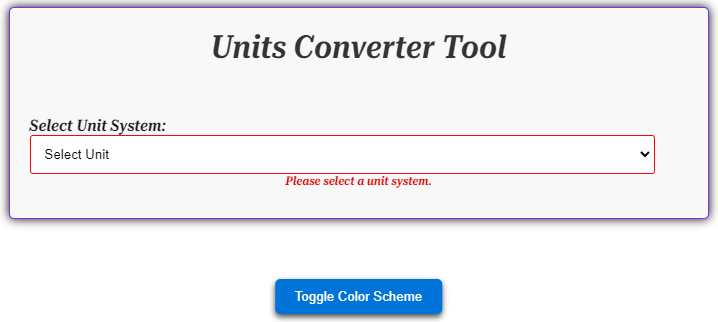
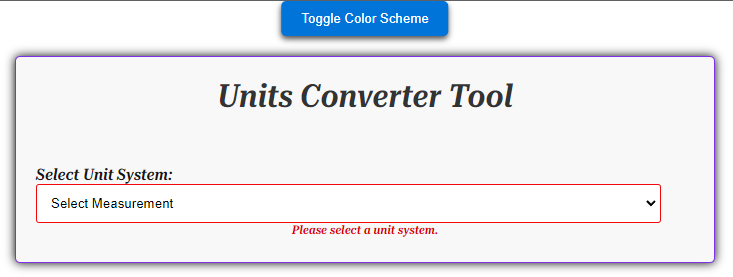
update readme

Changed region(s): [[0.0, 0.0, 1.0, 1.0], [0.0613, 0.4621, 0.1532, 0.491], [0.8886, 0.4621, 0.9192, 0.491]]

diff --git a/index.html b/index.html
@@ -24,7 +24,7 @@
             <select class="input-control" id="unit-sys">
                 <option value="">Select Measurement</option>
             </select>
-            <p class="instructions">Please select a unit system.</p>
+            <p class="instructions">Please select a unit system</p>
         </div>
 
         <!-- from unit select dropdown -->
@@ -32,7 +32,7 @@
             <label for="from-unit">From:</label>
             <select class="input-control" id="from-unit">
             </select>
-            <p class="instructions">Please select which unit to convert from.</p>
+            <p class="instructions">Please select which unit to convert from</p>
 
         </div>
 
@@ -41,7 +41,7 @@
             <label for="to-unit">To:</label>
             <select class="input-control" id="to-unit">
             </select>
-            <p class="instructions">Please select which unit to convert to.</p>
+            <p class="instructions">Please select which unit to convert to</p>
 
         </div>
 
@@ -70,7 +70,7 @@
                     <label for="decimal-places">Decimal Count:</label>
                     <select id="decimal-places">
                     </select>
-                    <p class="instructions">select how many desimal and press <br> (Update Decimal)</p>
+                    <p class="instructions">select desired decimal places and press <br> (Update Decimal)</p>
             <button id="update-button">Update Decimal</button>
 
                 </div>

diff --git a/README.md b/README.md
@@ -23,18 +23,15 @@ You can find the live website [here](https://mufasa1611.github.io/Project2-Conve
     - [Validator Testing](#validator-testing)
     - [Browser Testing](#browser-testing)
     - [Manual Testing](#manual-testing)
-    - [Testing User Stories](#testing-user-stories)
     - [Fixed Bugs](#fixed-bugs)
-    - [Unfixed Bugs](#unfixed-bugs)
-
+ 
 - [Deployment](#deployment)
 
 - [Credits](#credits)
     - [Media](#media)
     - [Code](#code)
-    - [Content](#content)
-
-## Design
+   
+   ## Design
 
 ### Wireframes
 
@@ -45,45 +42,45 @@ for Desktop and Mobile:
 
 
 ### Fonts and Colours
-- I chose the free 'RobotoSerif_UltraC' and 'RobotoSerif_Thin' for the whole page to stay consistent for better user accessibility. The fonts were downloaded from google fonts and are placed in the local folder "fonts".
+- I chose the free 'RobotoSerif_UltraC' and 'RobotoSerif_Thin' for the whole page because I think they are a good match and to stay consistent for better user accessibility. The fonts were downloaded from google fonts and are placed in the local folder "fonts".
 
-- The colors were chosen considering good contrasts for better readabiliy
+- The colors were chosen considering good contrasts for better readability
 
 ## Features
 
 ### Existing Features
 
-- When entering the site, the user can see a box with the title "Units Converter Tool" with a drop down box from which he is asked to select a unit system. 
-
-![first](assets/pic/first.png)
-
-- After selecting the unit system, the box expands to show drop-down boxes to select a he unit to convert from and a unit to convert to, as well as an input field to enter a decimal value. Below this field is a convert button, to start the conversion process.
-![second](assets/pic/second.png)
-
-- Next a second box appears below showing the conversion result for one unit and the converted value with one decimal place. An invalid entry in the "enter value" field will display a pop-up message asking the user to input a valid decimal number. 
-
-- Also a drop-down box is placed beneath with instructions asking the user to select the desired decimal places for the result from 1 to 9 and to press the convert button again. The converted value is then shown updated as per the user preference.
-
-![third](assets/pic/third.png)
-
-- All the time, the user has the choice to click on a button called "Toggle Color Scheme" to toggle between a default light color scheme:
+- When entering the site, the user first sees  blue button called "Toggle Color Scheme" giving the user the choice to toggle between a default light color scheme:
 
 ![light color scheme](assets/pic/light.png) 
 
-and a dark color scheme:
+and a dark/green color scheme:
 
-![dark color scheme](assets/pic/dark.png).
+![dark color scheme](assets/pic/dark2.png).
+
+- Under the color toggle button is a box titled "Units Converter Tool", featering a drop down box from which the user is asked to select a unit system. 
+
+![first](assets/pic/first.png)
+
+- After selecting the unit system, the box expands to show drop-down boxes to select a  unit to convert from and a unit to convert to, as well as an input field to enter a decimal value. Below this field is a convert button to start the conversion process.
+![second](assets/pic/second2.png)
+
+- Next a second box appears below showing the conversion result for one unit and the converted value with one decimal place. An invalid entry in the "enter value" field will display a pop-up message asking the user to input a valid decimal number. 
+
+- Also a drop-down box is placed beneath with instructions asking the user to select the desired decimal places for the result from 1 to 9 and to press the "update decimal" button. The converted value is then shown updated as per the user preference.
+
+![third](assets/pic/third2.png)
 
 ### Future Features
- - possible future features inlcude online conversion for other units such as for volume, area and weight.
+ - possible future features inlcude online conversion for other units such as for area and weight
 
 ## UX
    
 ### Site Goals
-- the idea is to provide an easy to use, useful, fun online conversion tool for common units, giving the user the choice to select the units, the desired decimal places for the result and to toggle between two color schemes
+- the idea is to provide an easy to use, useful, useful online conversion tool for common units, giving the user the choice to select the units, the desired decimal places for the result and to toggle between two color schemes
 
 ### User Stories
-- the site and the tool should be easy to navigate and to use, the instructions easy to understand and to follow, the site fun and interesting to interact with
+- the site and the tool should be easy to navigate and to use, the instructions easy to understand and to follow, the site useful and interesting to interact with
 
 ## Technologies used
 - [Balsamiq](https://balsamiq.com/) was used to pre-design the layout
@@ -123,9 +120,12 @@ and a dark color scheme:
 ![Mobile](assets/pic/mob.png)
 
 ### Fixed Bugs
+When first running the W3C validation Service, 
 
-### Unfixed Bugs
+- a stray div end tag was found, and
+- an id was used twice in the html file
 
+These errors were corrected.
 
 ## Deployment
 The steps to deploy a website on GitHub pages are:
@@ -138,25 +138,33 @@ The steps to deploy a website on GitHub pages are:
 
 - The link to my live site is here: [Units Converter](https://mufasa1611.github.io/Project2-Converter)
 
-### Local Depoloyment
-
-
 ## Credits
 
 ### Media
+I took inspiration and ideas for the converter from the following sources:
+- [Sujayroutcs Unit Converter](https://github.com/Sujayroutcs/CodeClause_project1_UnitConverter/blob/main/script.js)
+
+- [Robsd example js unit converter](https://github.com/robsd/js-unit-converter/blob/main/js/script.js)
+
+- [hiding and removing elements in the dom in js](https://tpiros.dev/blog/hiding-removing-elements-in-dom-using-javascript/)
+
+- [Kevin Powells youtube tutorial on the color scheme toggle in js](www.youtube.com/watch?v=n3lcjY4Mm00)
+
+conversetion formula calculations:
+https://isquaredcreative.github.io/Convertee/
+https://stackblitz.com/edit/react-h2yrd2?file=index.js
+
 
 ### Code
-
-### Content
 
 
 ## Acknowledgements
 
 Big Thanks to:
 
-- My Mentor [Jack Wachira](https://code-institute-room.slack.com/team/U01GBLV8S9L) for his help and advice through this project
+- My Mentor [Jack Wachira](https://code-institute-room.slack.com/team/U01GBLV8S9L) for his help and advice through this project and for his extra time
 
-- My facilitator [Kay Ci](https://code-institute-room.slack.com/team/U056NU8DZEW) for her support and for providing detailed links to the information I needed.
+- My facilitator [Kay Ci](https://code-institute-room.slack.com/team/U056NU8DZEW) for her continous support and for guidance providing detailed links to the information I needed
 
 
 
